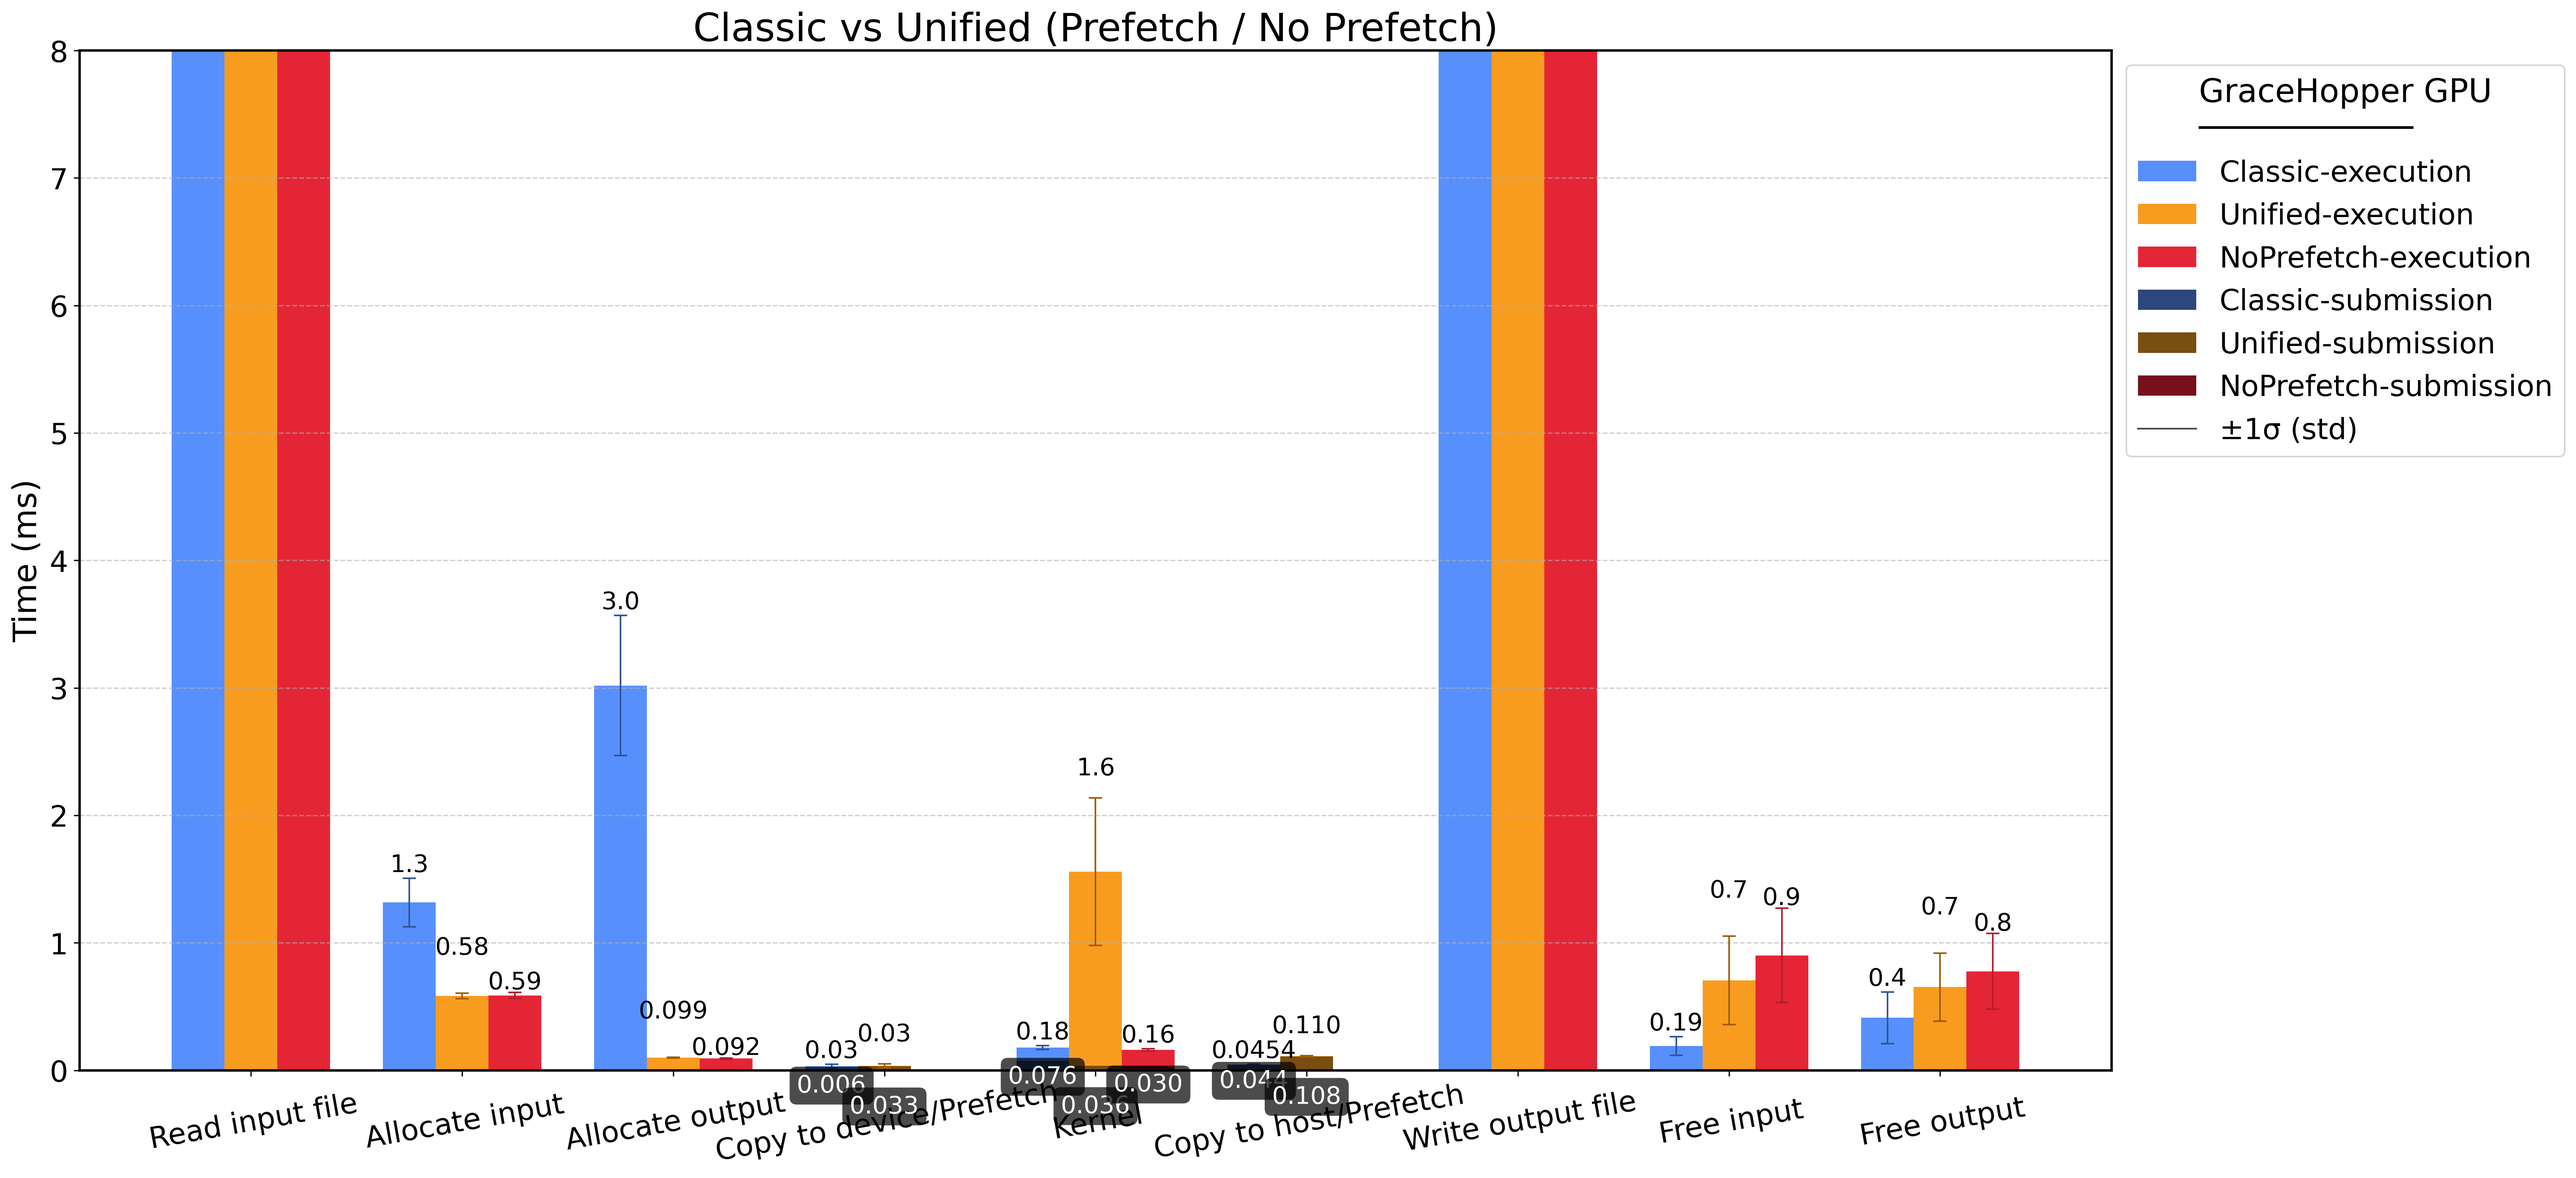
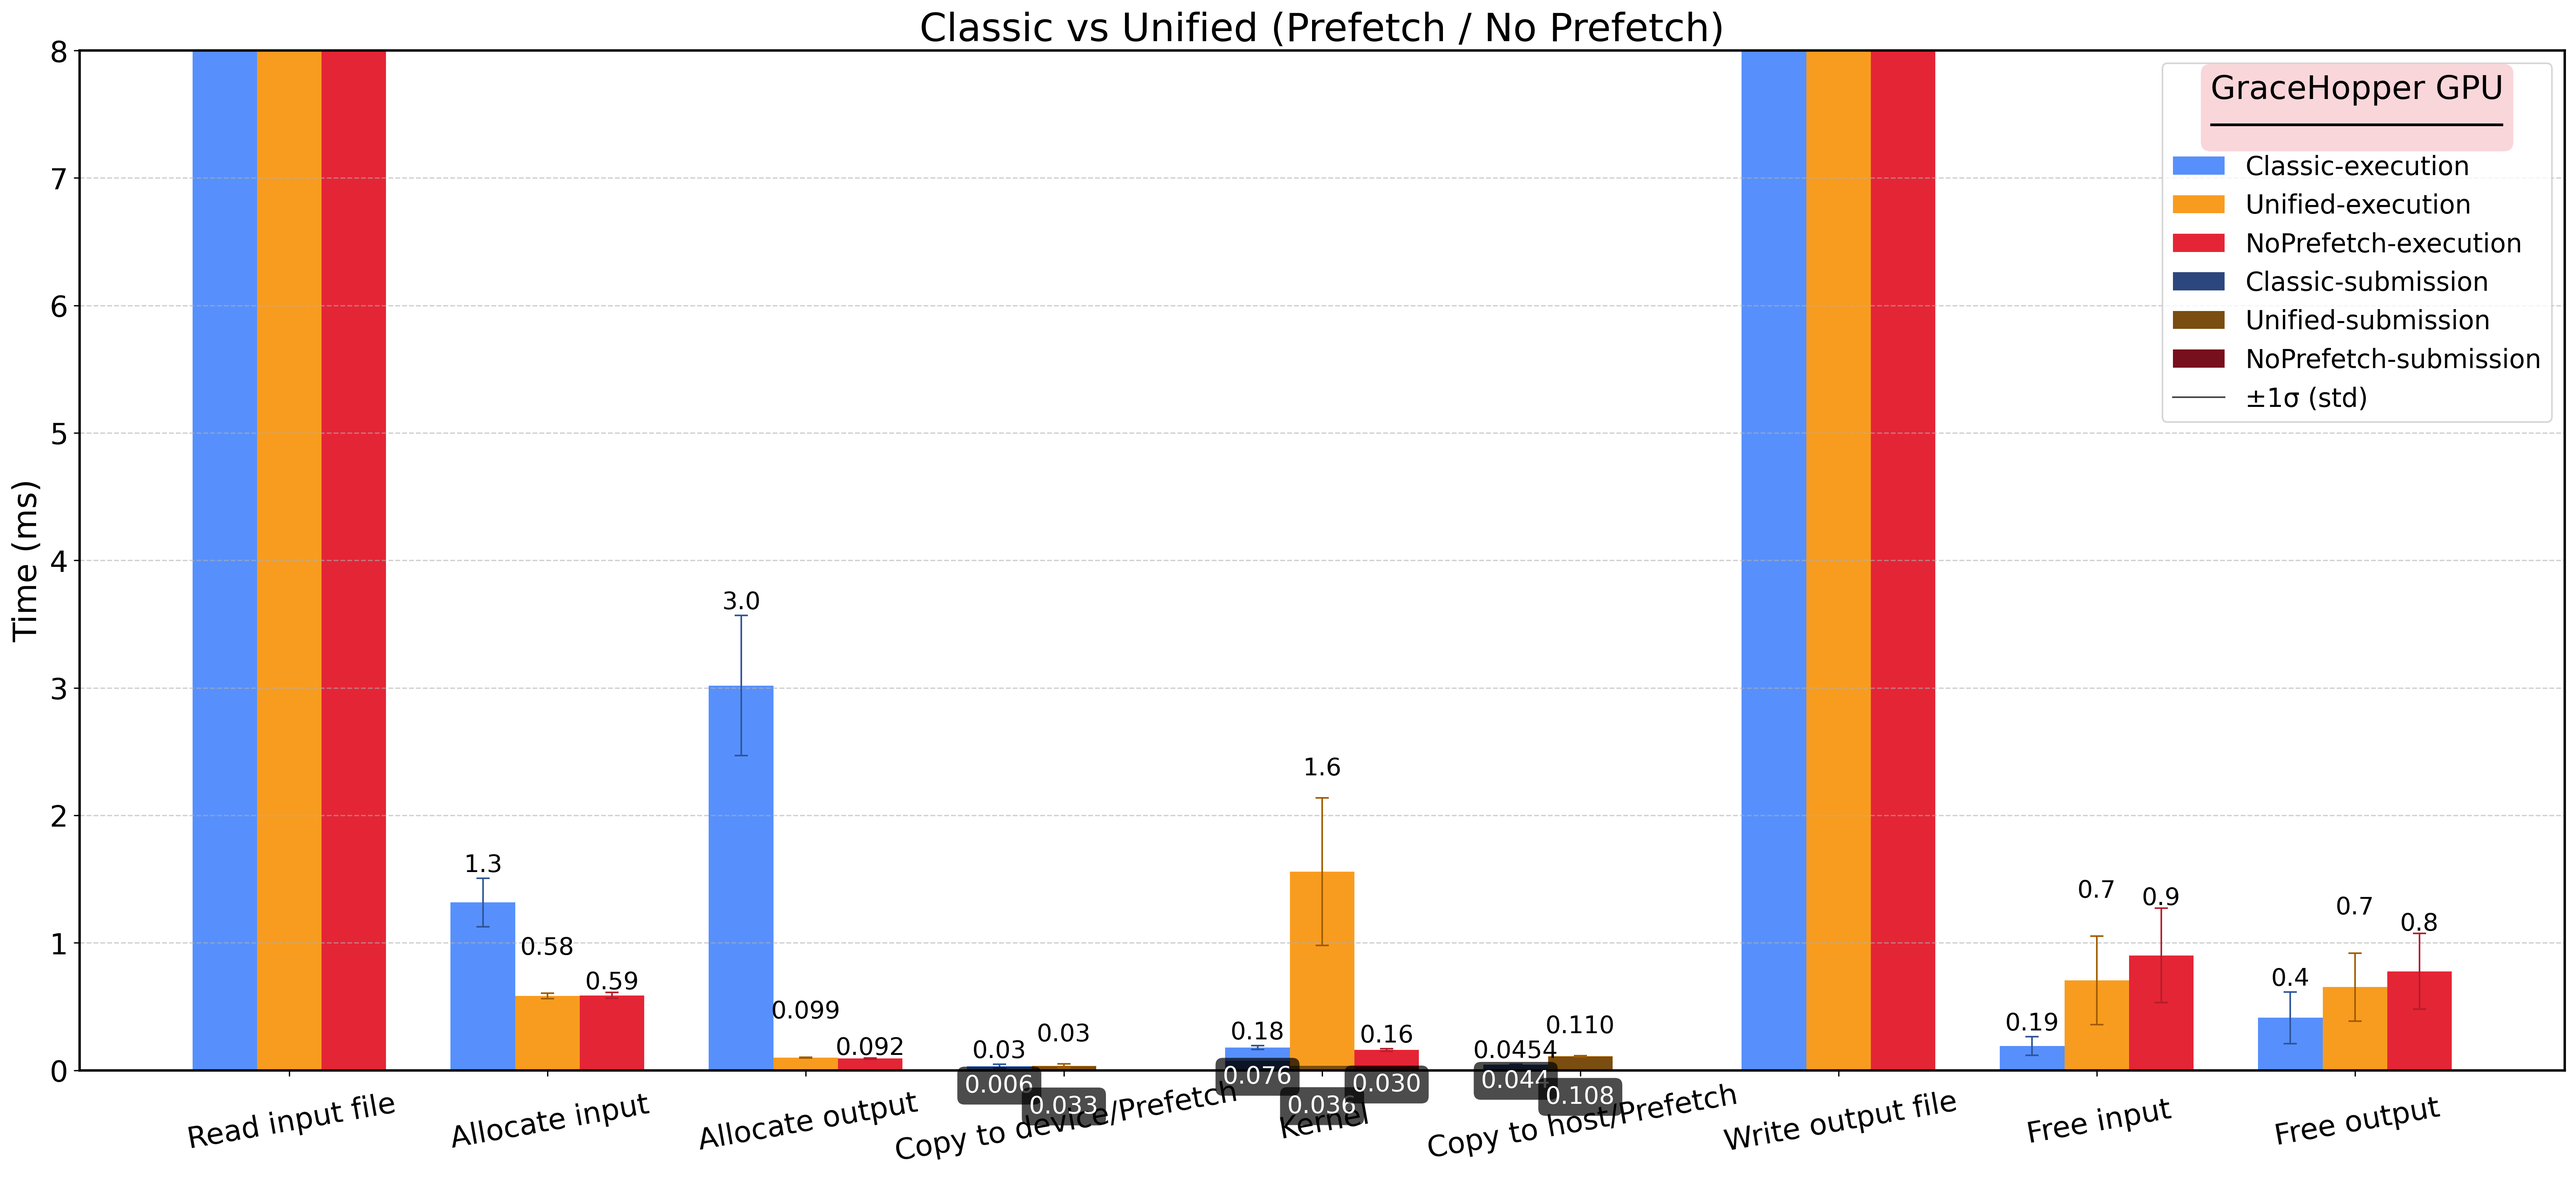
ACAT PLOTS 02/09/2025

Changed region(s): [[0.0624, 0.0, 0.9673, 0.9914], [0.8113, 0.031, 0.9985, 0.3718], [0.8113, 0.7436, 0.8425, 0.7746]]

diff --git a/Results/compare_timing.py b/Results/compare_timing.py
@@ -148,7 +148,7 @@ plt.rcParams.update({
     "axes.labelsize": 20,          # x and y labels
     "xtick.labelsize": 18,         # tick labels
     "ytick.labelsize": 18,
-    "legend.fontsize": 18,
+    "legend.fontsize": 16,
     "axes.linewidth": 1.5          # thicker border
 })
 
@@ -378,7 +378,12 @@ def draw_plot(ax):
     handles, lbls = ax.get_legend_handles_labels()
     if "±1σ (std)" not in lbls:
         handles.append(err_proxy); lbls.append("±1σ (std)")
-    ax.legend(handles, lbls, loc="upper left", bbox_to_anchor=(1, 1), title=f"{gpu_name} GPU\n───────────", title_fontsize=20)
+    leg = ax.legend(handles, lbls, loc="upper right", title=f"{gpu_name} GPU\n───────────────", title_fontsize=20)
+
+    leg.get_title().set_color("black")
+    leg.get_title().set_bbox(dict(facecolor="#f9d6da",
+                                edgecolor="none",
+                                boxstyle="round,pad=0.3"))
 
 def make_variant(scale="linear", ylim=None, suffix="linear"):
     fig, ax = plt.subplots(figsize=(22, 10), constrained_layout=True)
